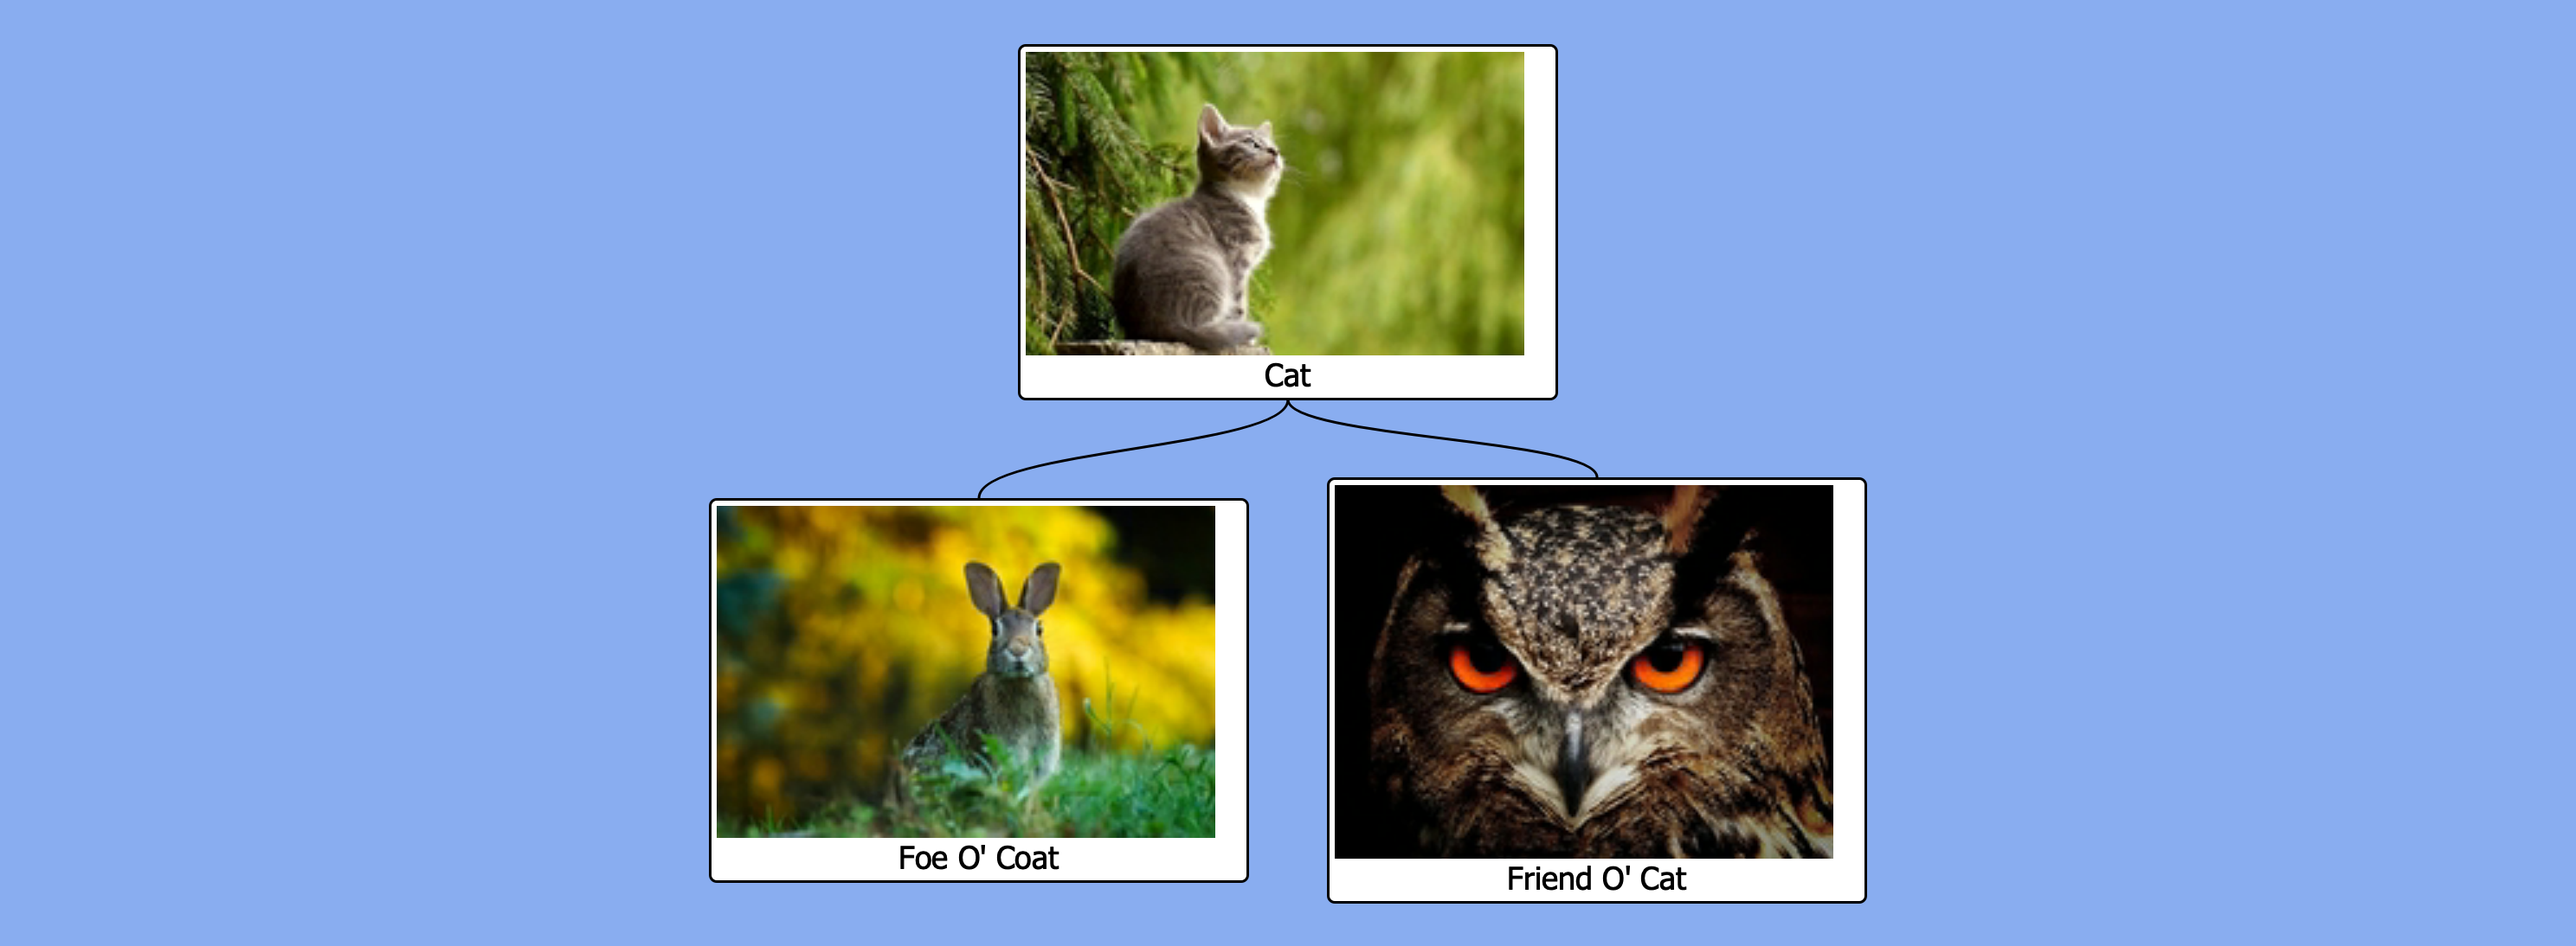
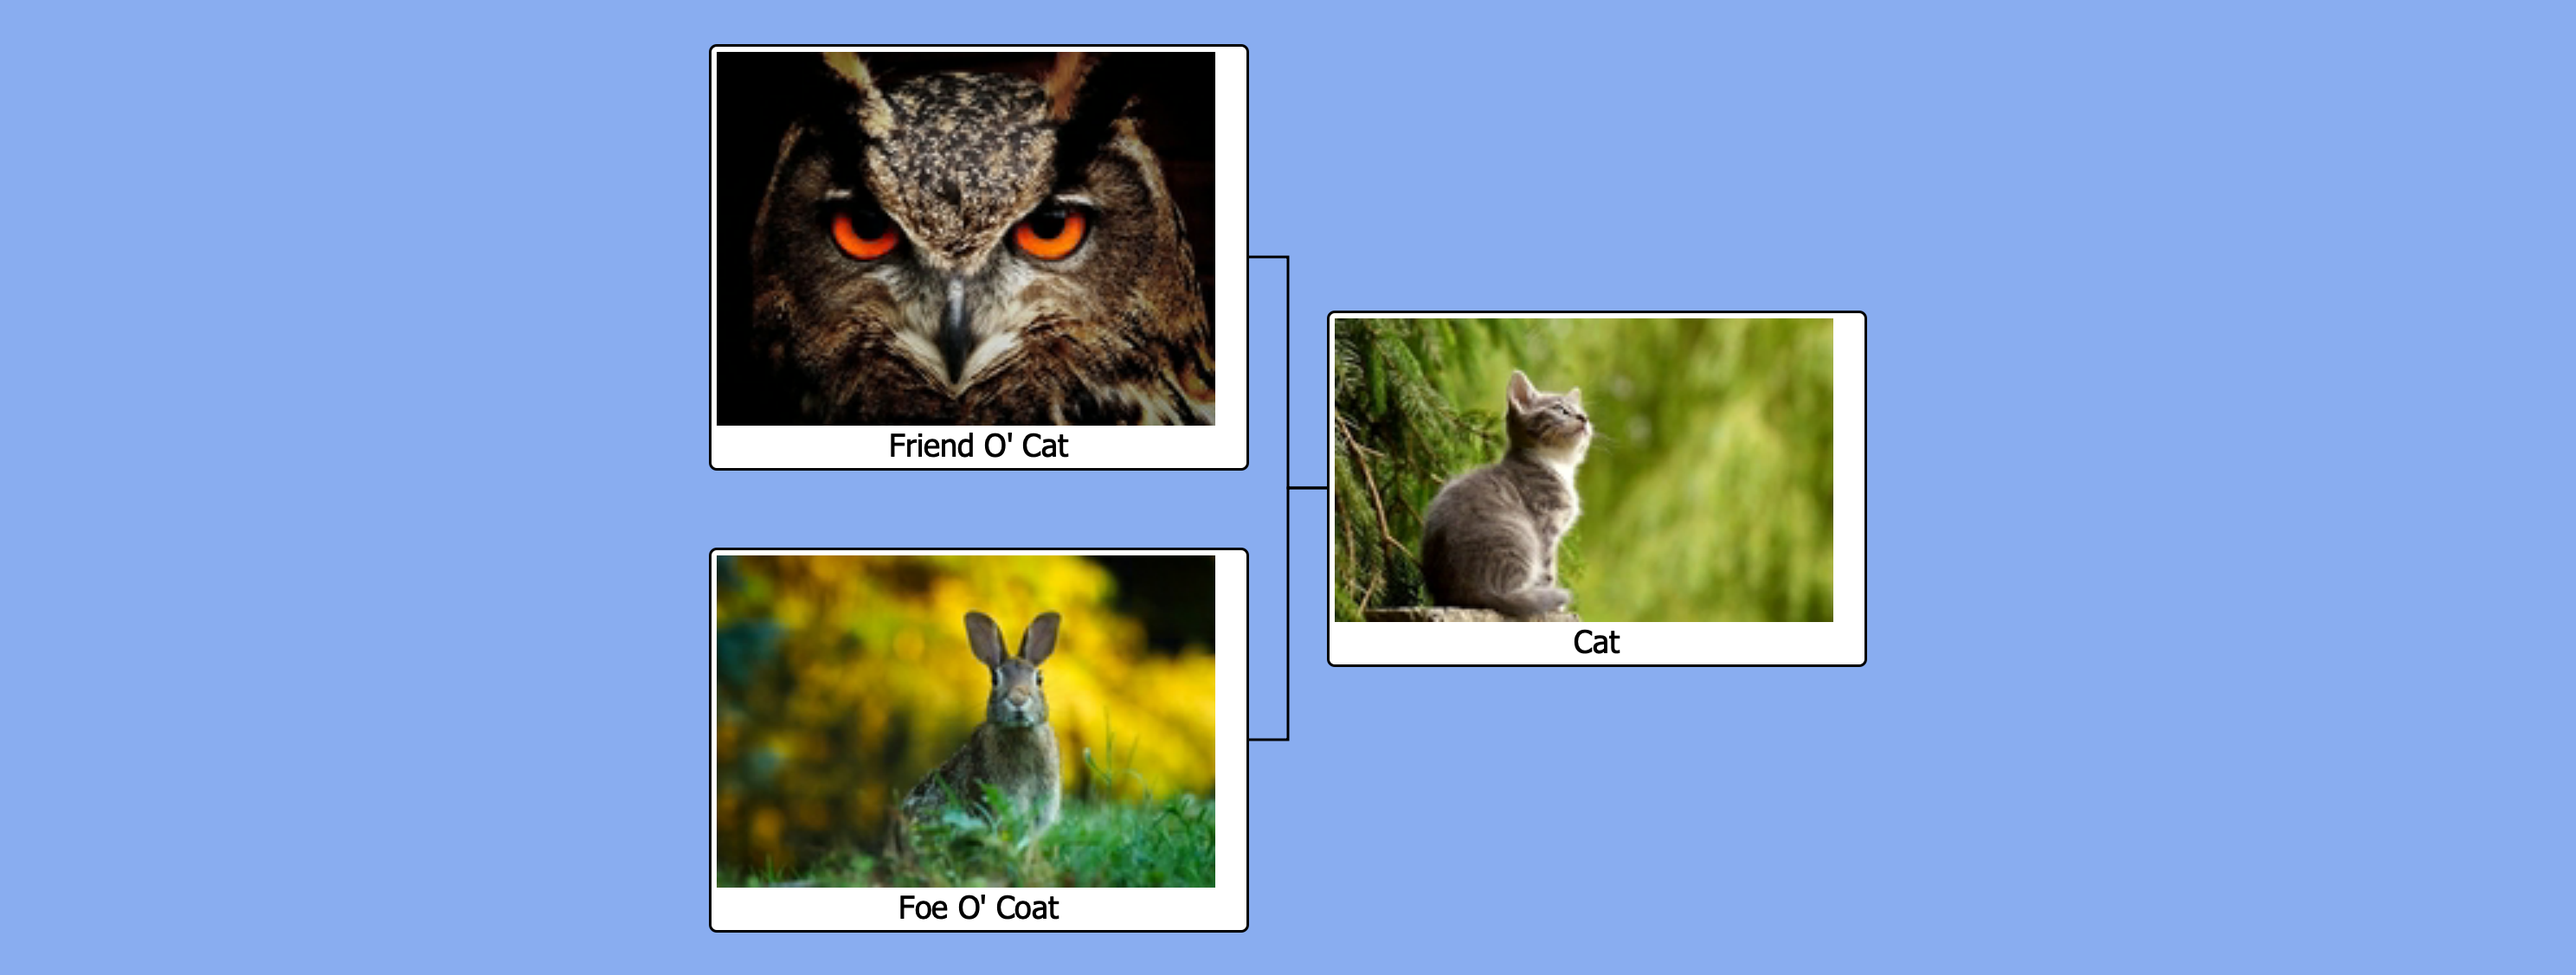
Updated image.

diff --git a/README.md b/README.md
@@ -9,3 +9,7 @@ This library has `Node` and `Tree` classes in the `treeplotter.tree` module. `No
 
 This package is used in the `decitala` package (see [here](https://github.com/Luke-Poeppel/decitala)) to make `FragmentTree` diagrams, like the following one of the Greek Prosodic Feet:
 <img src="images/Prosodic_Tree.png" height="250" width="715" style="border: 2px solid">
+
+Images can be added to `Node` objects, and we can customize tree properties with connector types and orientation. 
+
+<img src="images/image_nodes.png" height="250" width="715" style="border: 2px solid">
